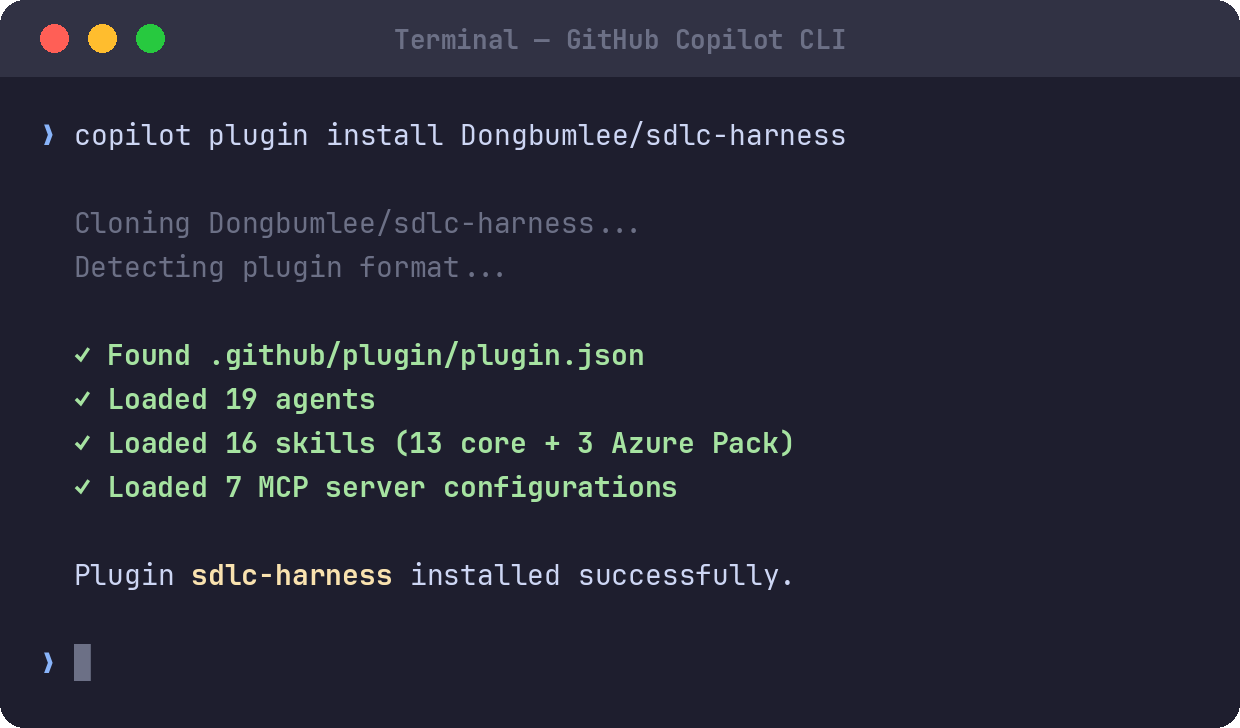
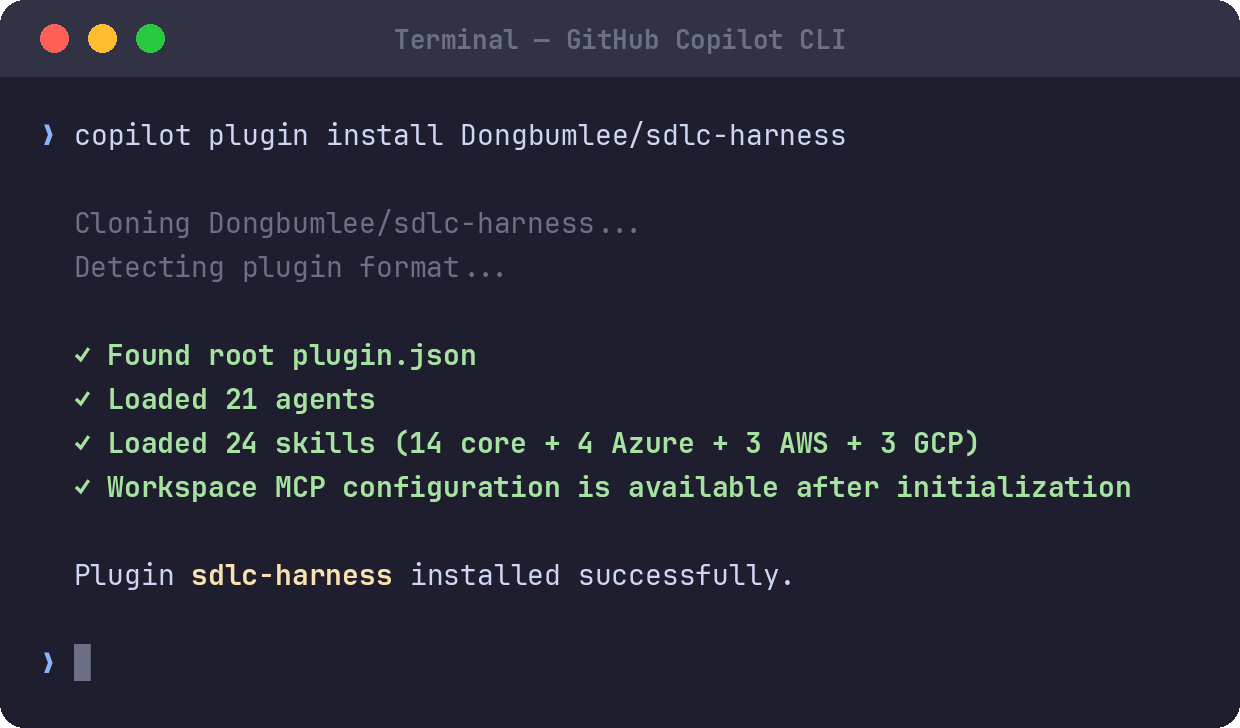
Fix the doc-resource audit findings: install images, dead catalog references
The README install cards still showed the pre-restructure counts
(19 agents, 16 skills, core + Azure only). I updated the generator to
the current 21 agents / 24 skills (14 core + 4 Azure + 3 AWS + 3 GCP),
regenerated both cards from it, and made the generator portable: the
output directory is repo-relative and the JetBrains Mono location is
resolved via SDLC_JBMONO_DIR or standard font locations instead of a
hardcoded path on my old machine. The marketplace card text is updated
to match (v1.3.0, same counts); its PNG was never shipped and still is
not.

Regenerating from the script also aligns the CLI card's wording with
the script itself (root plugin.json; workspace MCP available after
initialization) — the committed PNG had drifted from its generator.

I also replaced the two references to .github/reference-catalog.md,
which no longer exists: the ADR example in sdlc-adr-authoring now cites
the Stack Profiles skill, and the template README's resource table
points at the same catalog.

Changed region(s): [[0.0919, 0.4533, 0.9194, 0.6951], [0.4597, 0.6044, 0.4903, 0.6346], [0.3371, 0.6044, 0.3677, 0.6346]]

diff --git a/tools/generate_terminal_images.py b/tools/generate_terminal_images.py
@@ -2,11 +2,36 @@
 # Licensed under MIT
 """Generate macOS-style terminal screenshot PNGs for README."""
 
+import os
+from pathlib import Path
+
 from PIL import Image, ImageDraw, ImageFont
 
-FONT_PATH = "/tmp/jbmono/fonts/ttf/JetBrainsMono-Regular.ttf"
-FONT_BOLD_PATH = "/tmp/jbmono/fonts/ttf/JetBrainsMono-Bold.ttf"
-OUTPUT_DIR = "/home/donlee/works/sdlc-harness-dev/docs/assets"
+REPO_ROOT = Path(__file__).resolve().parents[1]
+OUTPUT_DIR = REPO_ROOT / "docs" / "assets"
+
+# JetBrains Mono is not bundled; point SDLC_JBMONO_DIR at a directory holding
+# JetBrainsMono-Regular.ttf / JetBrainsMono-Bold.ttf, or use one of the
+# default locations below.
+_FONT_DIRS = [
+    Path(os.environ["SDLC_JBMONO_DIR"]) if os.environ.get("SDLC_JBMONO_DIR") else None,
+    Path("/tmp/jbmono/fonts/ttf"),
+    Path.home() / ".local" / "share" / "fonts",
+]
+
+
+def _font_path(filename):
+    for base in _FONT_DIRS:
+        if base is not None and (base / filename).is_file():
+            return str(base / filename)
+    raise FileNotFoundError(
+        f"{filename} not found; set SDLC_JBMONO_DIR to the directory "
+        "containing the JetBrains Mono TTFs."
+    )
+
+
+FONT_PATH = _font_path("JetBrainsMono-Regular.ttf")
+FONT_BOLD_PATH = _font_path("JetBrainsMono-Bold.ttf")
 
 # Catppuccin Mocha palette
 BG = (30, 30, 46)
@@ -115,7 +140,7 @@ def generate_vscode():
         [("  https://github.com/Dongbumlee/sdlc-harness", YELLOW)],
         "",
         [("  ✓ ", GREEN), ("Cloning repository...", GREEN)],
-        [("  ✓ ", GREEN), ("Found plugin.json — 19 agents, 16 skills", GREEN)],
+        [("  ✓ ", GREEN), ("Found plugin.json — 21 agents, 24 skills", GREEN)],
         [("  ✓ ", GREEN), ("Plugin \"sdlc-harness\" installed successfully", GREEN)],
     ]
     img = create_terminal(620, lines, "VS Code — Command Palette")
@@ -132,8 +157,8 @@ def generate_cli():
         [("  Detecting plugin format...", DIM)],
         "",
         [("  ✓ ", GREEN), ("Found root plugin.json", GREEN)],
-        [("  ✓ ", GREEN), ("Loaded 19 agents", GREEN)],
-        [("  ✓ ", GREEN), ("Loaded 16 skills (13 core + 3 Azure)", GREEN)],
+        [("  ✓ ", GREEN), ("Loaded 21 agents", GREEN)],
+        [("  ✓ ", GREEN), ("Loaded 24 skills (14 core + 4 Azure + 3 AWS + 3 GCP)", GREEN)],
         [("  ✓ ", GREEN), ("Workspace MCP configuration is available after initialization", GREEN)],
         "",
         [("  Plugin ", TEXT), ("sdlc-harness", YELLOW), (" installed successfully.", TEXT)],
@@ -156,8 +181,8 @@ def generate_marketplace():
         "",
         [("── ", DIM), ("Browse available plugins", DIM), (" ──", DIM)],
         [("❯ ", BLUE), ("copilot plugin marketplace browse sdlc-harness", TEXT)],
-        [("    sdlc-harness", YELLOW), ("  v1.0.0", DIM)],
-        [("    19 agents · 16 skills · 7 MCP servers", DIM)],
+        [("    sdlc-harness", YELLOW), ("  v1.3.0", DIM)],
+        [("    21 agents · 24 skills · 7 MCP servers", DIM)],
         [("    Multi-agent SDLC orchestration with adversarial QA", DIM)],
         "",
         "---",

diff --git a/.design/README.template.md b/.design/README.template.md
@@ -173,7 +173,7 @@ from the Tech Stack table above.
 
 | Resource                                    | Description                      |
 | ------------------------------------------- | -------------------------------- |
-| [Reference Catalog](/.github/reference-catalog.md) | Reusable libraries and templates |
+| [Stack Profiles](/skills/sdlc-stack-profiles/SKILL.md) | Reusable libraries and templates |
 
 ### Security Guidelines
 

diff --git a/packs/core/skills/sdlc-adr-authoring/SKILL.md b/packs/core/skills/sdlc-adr-authoring/SKILL.md
@@ -131,7 +131,7 @@ High-level description of the chosen approach.
 - OQ-1: ...
 
 ## References
-- [Reference Catalog](../../.github/reference-catalog.md)
+- [Stack Profiles skill](../sdlc-stack-profiles/SKILL.md) — bundled template and library catalog
 ```
 
 ## Step 4: Validate the ADR

diff --git a/skills/sdlc-adr-authoring/SKILL.md b/skills/sdlc-adr-authoring/SKILL.md
@@ -131,7 +131,7 @@ High-level description of the chosen approach.
 - OQ-1: ...
 
 ## References
-- [Reference Catalog](../../.github/reference-catalog.md)
+- [Stack Profiles skill](../sdlc-stack-profiles/SKILL.md) — bundled template and library catalog
 ```
 
 ## Step 4: Validate the ADR
